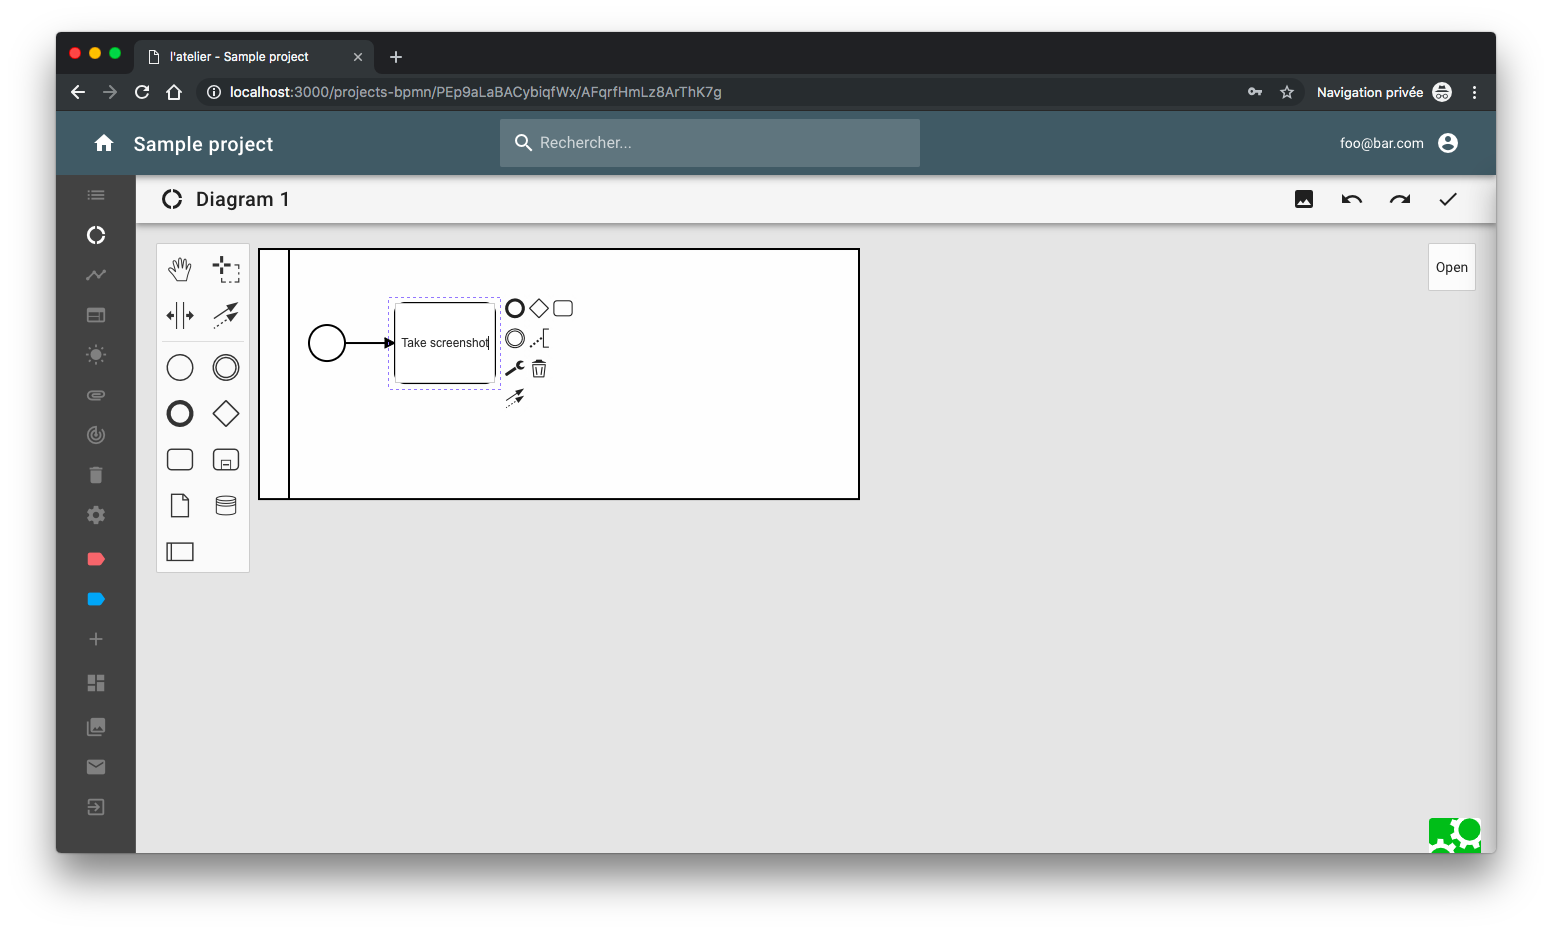
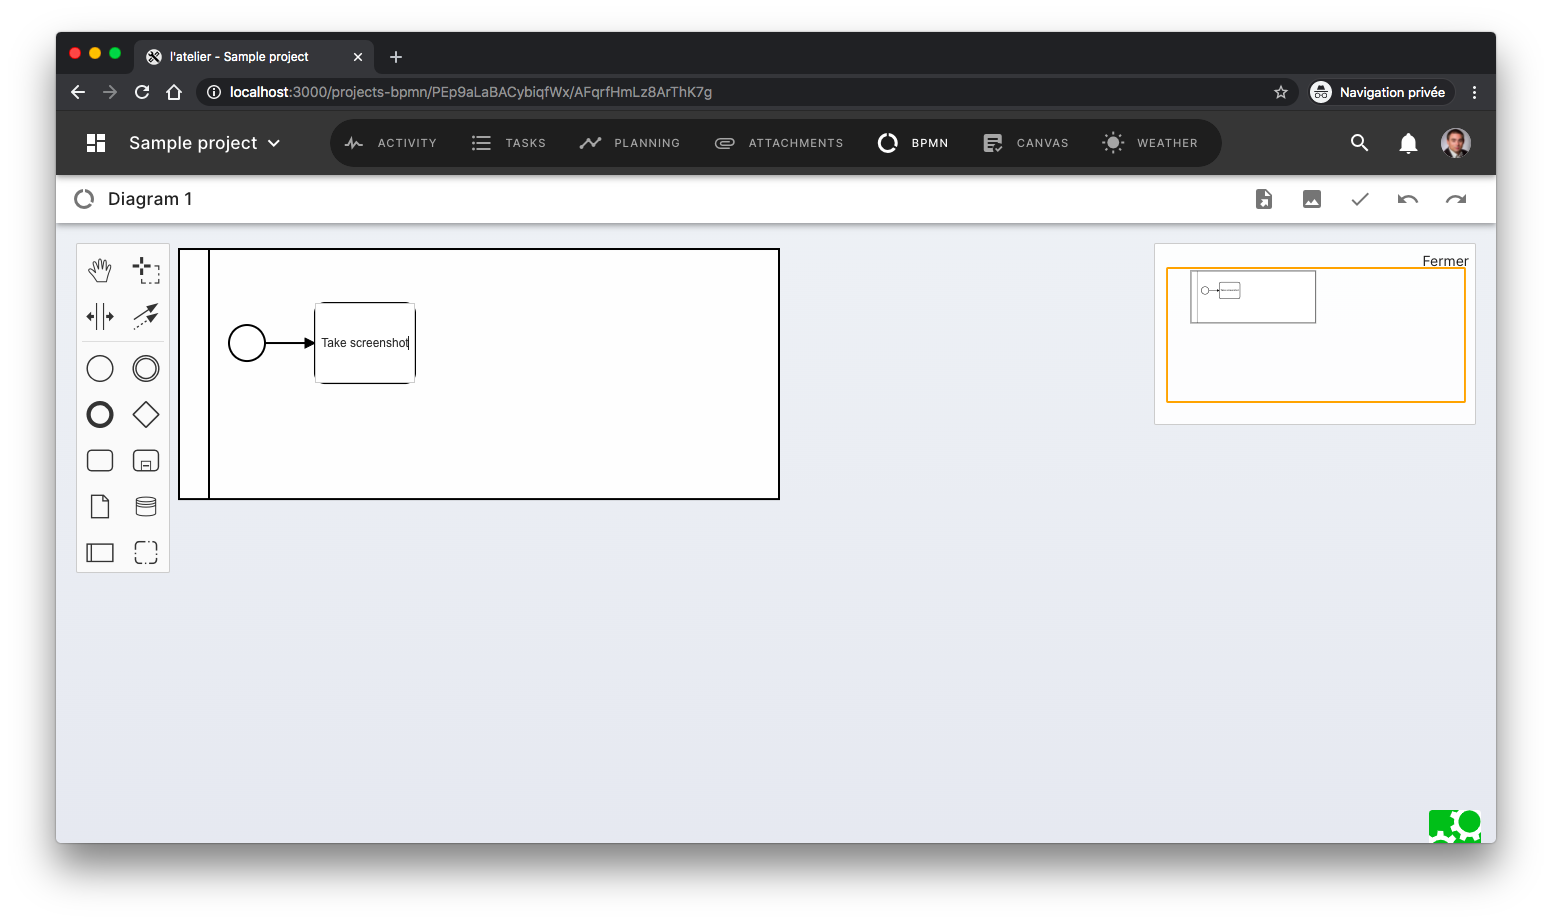
Update screenshots on README.md

Changed region(s): [[0.0309, 0.0303, 0.9897, 0.9404]]

diff --git a/CHANGELOG.md b/CHANGELOG.md
@@ -9,6 +9,7 @@ and this project adheres to [Semantic Versioning](https://semver.org/spec/v2.0.0
 ### Added
 
 ### Changed
+- Update screenshots on README.md
 - Fix translation
 - Lazy load ProjectBPMN component to minimize final bundle
 

diff --git a/README.md b/README.md
@@ -180,6 +180,8 @@ Default password for generated users is `password`.
 
 ### Screenshots
 
+![Dashboard](/docs/task.png)
+
 ![Dashboard](/docs/dashboard.png)
 
 ![Planning (organization)](/docs/planning1.png)
